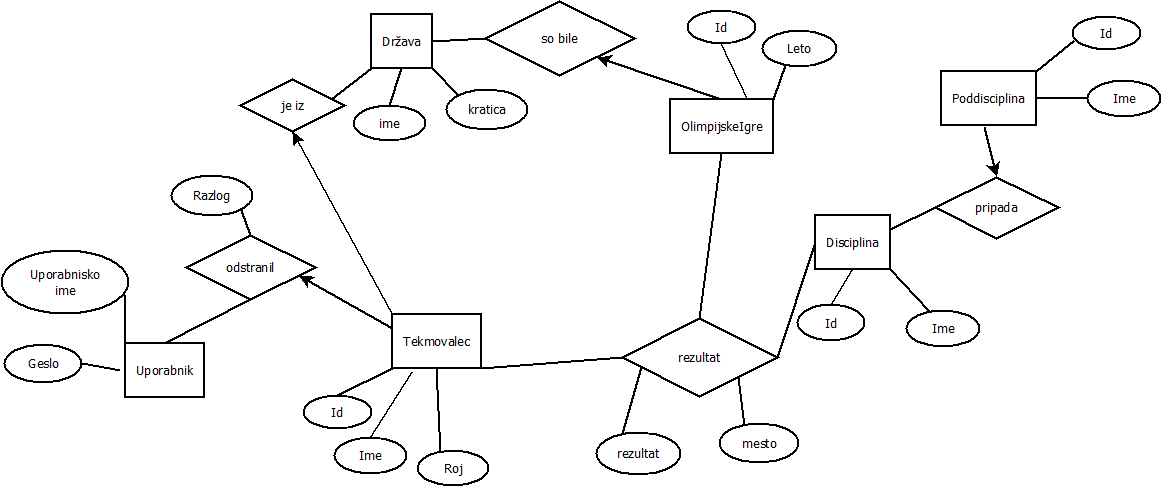
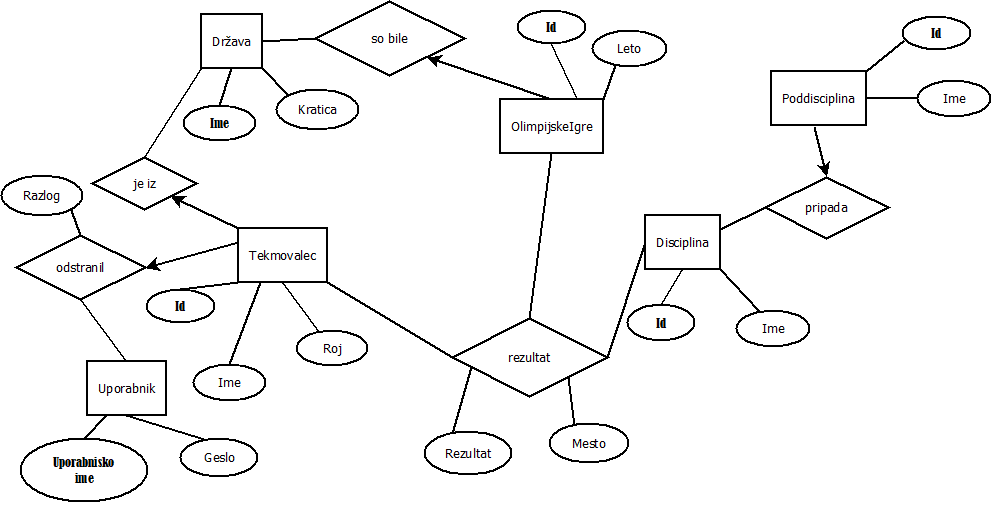
ER diagram

diff --git a/README.md b/README.md
@@ -4,6 +4,8 @@ Avtorici: Saša Ošlaj in Tina Savarin.
 
 Pridobili bi discipline, ki so bile zastopane na olimpijskih igrah. Pridobili bi tudi tekmovalce in njihove rezultate pri vsaki disciplini na olimpijskih igrah. Črpali bi iz spletne strani https://www.olympic.org/olympic-results. Naredili bi bazo z naslednjimi tabelami: tekmovalec, rezultat, drzava, disciplina, poddisciplina in olimpijske igre. Imeli bi tudi tabelo komisija, ki bi se dodajala notri sproti iz spletne strani z geslom in uporabniškim imenom in ti bi lahko potem odstanili tekmovalce ali pa dodali nove olimpijske igre, tekmovalce, rezultate, discipline in poddiscipline.
 
+![](zimskeOI.png)
+
 
 
 
